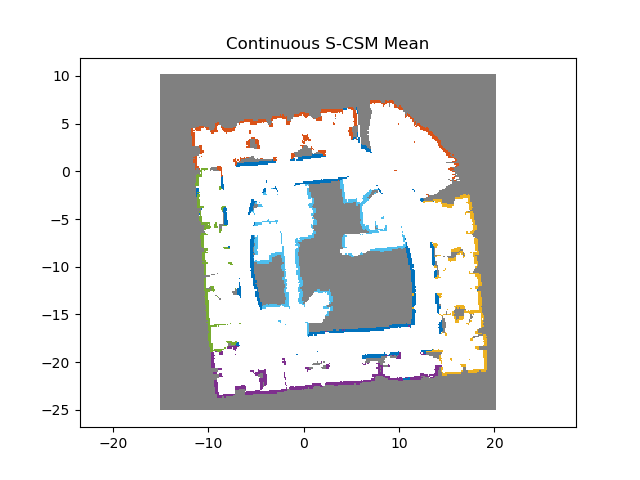
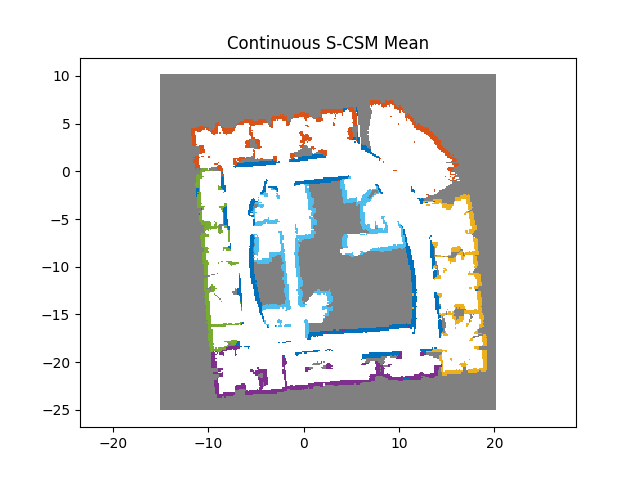
modify criteria of measuring distance when the grid was considered as free in HW6

diff --git a/homework-06/HW6_code_python/HW6_code_python/ogm_continous_S_CSM.py b/homework-06/HW6_code_python/HW6_code_python/ogm_continous_S_CSM.py
@@ -122,7 +122,7 @@ class ogm_continous_S_CSM:
             kernel_value = self.kernel(d1)
             self.map['alpha'][i, int(z[idx, 2]-1)] += kernel_value
 
-        for segment in np.arange(0, z[idx,0], self.grid_size):
+        for segment in np.arange(0, z[idx,0]-self.grid_size, self.grid_size):
 
             global_x = self.pose['x'][k][0] + segment * np.cos(z[idx,1] + self.pose['h'][k][0])
             global_y = self.pose['y'][k][0] + segment * np.sin(z[idx,1] + self.pose['h'][k][0])

diff --git a/homework-06/HW6_code_python/HW6_code_python/ogm_continuous_CSM.py b/homework-06/HW6_code_python/HW6_code_python/ogm_continuous_CSM.py
@@ -123,7 +123,7 @@ class ogm_continuous_CSM:
             kernel_value = self.kernel(d1)
             self.map['alpha'][i, 0] += kernel_value
 
-        for segment in np.arange(0, z[idx,0], self.grid_size):
+        for segment in np.arange(0, z[idx,0]-self.grid_size, self.grid_size):
 
             global_x = self.pose['x'][k][0] + segment * np.cos(z[idx,1] + self.pose['h'][k][0])
             global_y = self.pose['y'][k][0] + segment * np.sin(z[idx,1] + self.pose['h'][k][0])

diff --git a/homework-06/HW6_code_python/HW6_code_python/run.py b/homework-06/HW6_code_python/HW6_code_python/run.py
@@ -13,7 +13,7 @@ from ogm_continous_S_CSM import ogm_continous_S_CSM
 def parse_args():
     parser = argparse.ArgumentParser(description='Run HW6')
     parser.add_argument('--task_num', type=int, help='Which task are you running?',
-                        default=2)
+                        default=4)
     parser.add_argument('--plot', dest='plot', action='store_false')
     args = parser.parse_args()
     return args
